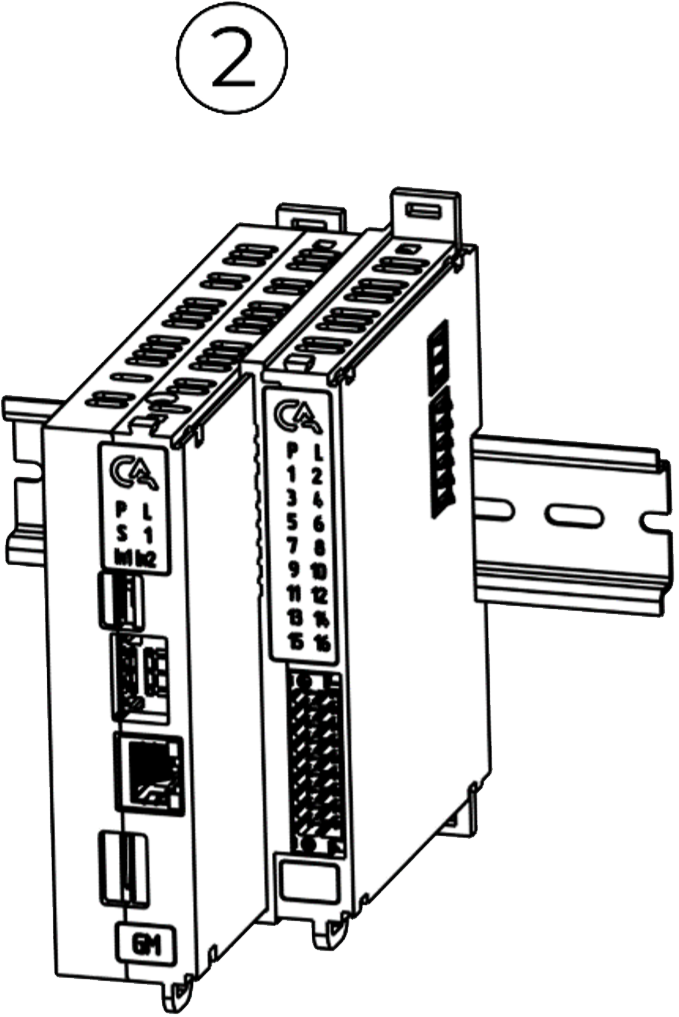
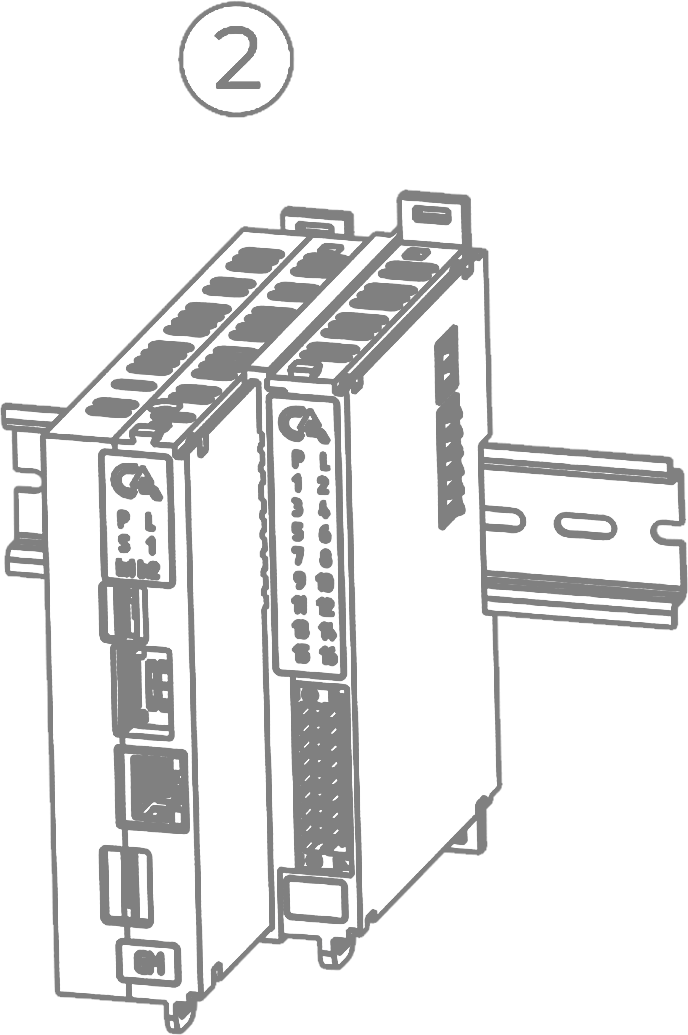
Замена картинок инсталяции

Changed region(s): [[0.0, 0.1829, 1.0, 1.0], [0.2784, 0.0, 0.433, 0.1219], [0.2474, 0.0305, 0.2784, 0.0914]]

diff --git a/docs/user_manual/ARINC.md b/docs/user_manual/ARINC.md
@@ -1,0 +1,129 @@
+# Модуль интерфейсный IPCSA-OG-IFARINC
+
+## Общие сведения
+
+??? example "Разработка"
+
+    На текущий момент модуль на стадии разработки. Начало тестирования запланированно на апрель 2025 года 
+
+<div class="grid cards" markdown>
+
+![Image title](../img/modules/DI.png){ width="150" align=left  }
+Модуль дискретного ввода DI (арт. IPCSA-OG-DI) является 16-ти канальным модулем расширения и предназначен для приема и обработки дискретных команд от внешних устройств.
+В модуле предусмотрено две схемы подключения: «сухим» (dry) и «мокрым» (wet) контактом.
+При подключении «мокрым» контактом модуль принимает дискретные команды постоянным напряжением 24 В от внешнего источника питания, при этом допускается подача напряжения как положительной, так и отрицательной полярности.
+При подключении «сухим» контактом не требуется подача внешнего напряжения.
+</div>
+
+## Технические характеристики 
+| Характеристика                                      | Значение                                       |
+|----------------------------------------------------|-----------------------------------------------|
+| Максимальная потребляемая мощность, Вт            | 1,5                                           |
+| Количество входных каналов                        | 16                                            |
+| Напряжение детектирования логической единицы при подключении «мокрым» контактом, В | от 10 до 30 и от -30 до -10                   |
+| Напряжение детектирования логического нуля при подключении «мокрым» контактом, В   | от -3 до 3                                    |
+| Время запаздывания, мс                            | 4                                             |
+| Время антидребезга, мс                            | 3                                             |
+| Гальваническая изоляция                           | Между входной и выходной логикой              |
+| Тип проводника                                    | Медный                                        |
+| Сечение проводника, мм²                           | От 0,2 до 1,5                                 |
+| Масса, г                                          | 125                                           |
+| Габариты В×Ш×Г, мм                                | 126×21,3×90                                   |
+
+## Эксплуатационные характеристики
+| Характеристика                   | Значение           |
+| -------------------------------- | -                  |
+| Температура эксплуатации, °С     | От минус 40 до 60  |
+| Температура хранения, °С         | От минус 40 до 60  |
+| Влажность при хранении, %	       | От 5 до 95         |
+| Влажность при эксплуатации, %    | От 5 до 95         |
+| Тип монтажа                      | На DIN-рейку 35 мм |
+| Расположение при монтаже         | Вертикальное       |
+
+## Схема подключения
+
+<div class="grid cards" markdown>
+![Image title](../img/connection/DI.svg){ width="370"; align=left  }
+
+![Image title](../img/connection/connector_18pin.png){ width="170";  }
+</div>
+
+Контакты «GND_DRY» и «GND_WET» предназначены для подключения входов по принципу «сухого» или «мокрого» контакта соответственно.
+
+| Обозначение | Название канала | Описание                       |
+|-------------|-----------------|--------------------------------|
+| 1 - 16      | DO1 - OD16      | Входной канал 1 - 16          |
+| 17          | G_WET             | Общий контакт при подклбчении по схеме "мокрый контакт"|
+| 18          | G_DRY            | Общий контакт при подклбчении по схеме "сухой контакт" |
+
+## Индикация
+![Image title](../img/identification/18_leds.png){ width="50" }
+
+
+| Обозначение | Индикация | Показатель |
+|------------------|----------------------|---------------------------------------|
+| P | :green_circle:| Наличие напряжения питания |
+| P | :white_circle:| Отсутствие напряжения питания |
+| L | :green_circle:| Наличие соединения Ethernet |
+| L | :yellow_circle: :green_circle: :yellow_circle: | Обмен данными по Ethernet |
+| L | :white_circle:| Отсутствие соединения Ethernet|
+| 1-16 | :green_circle:| Контакт 1 - 16 замкнут  |
+| 1-16 | :white_circle:| Контакт 1 - 16 разомнут|
+
+## Габаритные размеры
+![alt text](../img/dimensions.png)
+
+## Программное обеспечение
+Акутуальный конфигурационный файл можно скачать по 
+<a href="../../downloads/ipcsa_modules_config.xml" download>ссылке</a>
+
+
+### Информация PDO модуля на языке C
+
+``` c title="Ethercat cstruct"
+/* Master 0, Slave 0, "LAN9252-DIGIO-2PORT-BIDIR"
+ * Vendor ID:       0xe00004d8
+ * Product code:    0x00000021
+ * Revision number: 0x00000001
+ */
+
+ec_pdo_entry_info_t slave_0_pdo_entries[] = {
+    {0x3101, 0x01, 8}, /* Output */
+    {0x3101, 0x02, 8}, /* Output */
+};
+
+ec_pdo_info_t slave_0_pdos[] = {
+    {0x1a00, 1, slave_0_pdo_entries + 0}, /* Byte 0 */
+    {0x1a01, 1, slave_0_pdo_entries + 1}, /* Byte 0 */
+};
+
+ec_sync_info_t slave_0_syncs[] = {
+    {0, EC_DIR_OUTPUT, 2, slave_0_pdos + 0, EC_WD_ENABLE},
+    {1, EC_DIR_OUTPUT, 0, NULL, EC_WD_ENABLE},
+    {0xff}
+};
+``` 
+### Адреса регистов
+|Тип|Индекс|Адрес|Описание|
+|-|-|-|-|
+|ТxPDO |0x1a00|0x6000|Состояние 1-8 контактов в ввиде битовой маски|
+| TxPDO |0x1a00|0x6000:1| Состояние 1 контакта (1 - замкнут, 0 - разомкнут)|
+| TxPDO |0x1a00|0x6000:2| Состояние 2 контакта (1 - замкнут, 0 - разомкнут)|
+| TxPDO |0x1a00|0x6000:3| Состояние 3 контакта (1 - замкнут, 0 - разомкнут)|
+| TxPDO |0x1a00|0x6000:4| Состояние 4 контакта (1 - замкнут, 0 - разомкнут)|
+| TxPDO |0x1a00|0x6000:5| Состояние 5 контакта (1 - замкнут, 0 - разомкнут)|
+| TxPDO |0x1a00|0x6000:6| Состояние 6 контакта (1 - замкнут, 0 - разомкнут)|
+| TxPDO |0x1a00|0x6000:7| Состояние 7 контакта (1 - замкнут, 0 - разомкнут)|
+| TxPDO |0x1a00|0x6000:8| Состояние 8 контакта (1 - замкнут, 0 - разомкнут)|
+| TxPDO |0x1a08|0x6080| Состояние 9-16 контактов в ввиде битовой маски|
+| TxPDO |0x1a08|0x6080:1| Состояние 9 контакта (1 - замкнут, 0 - разомкнут)|
+| TxPDO |0x1a08|0x6080:2| Состояние 10 контакта (1 - замкнут, 0 - разомкнут)|
+| TxPDO |0x1a08|0x6080:3| Состояние 11 контакта (1 - замкнут, 0 - разомкнут)|
+| TxPDO |0x1a08|0x6080:4| Состояние 12 контакта (1 - замкнут, 0 - разомкнут)|
+| TxPDO |0x1a08|0x6080:5| Состояние 13 контакта (1 - замкнут, 0 - разомкнут)|
+| TxPDO |0x1a08|0x6080:6| Состояние 14 контакта (1 - замкнут, 0 - разомкнут)|
+| TxPDO |0x1a08|0x6080:7| Состояние 15 контакта (1 - замкнут, 0 - разомкнут)|
+| TxPDO |0x1a08|0x6080:8| Состояние 16 контакта (1 - замкнут, 0 - разомкнут)|
+
+
+
